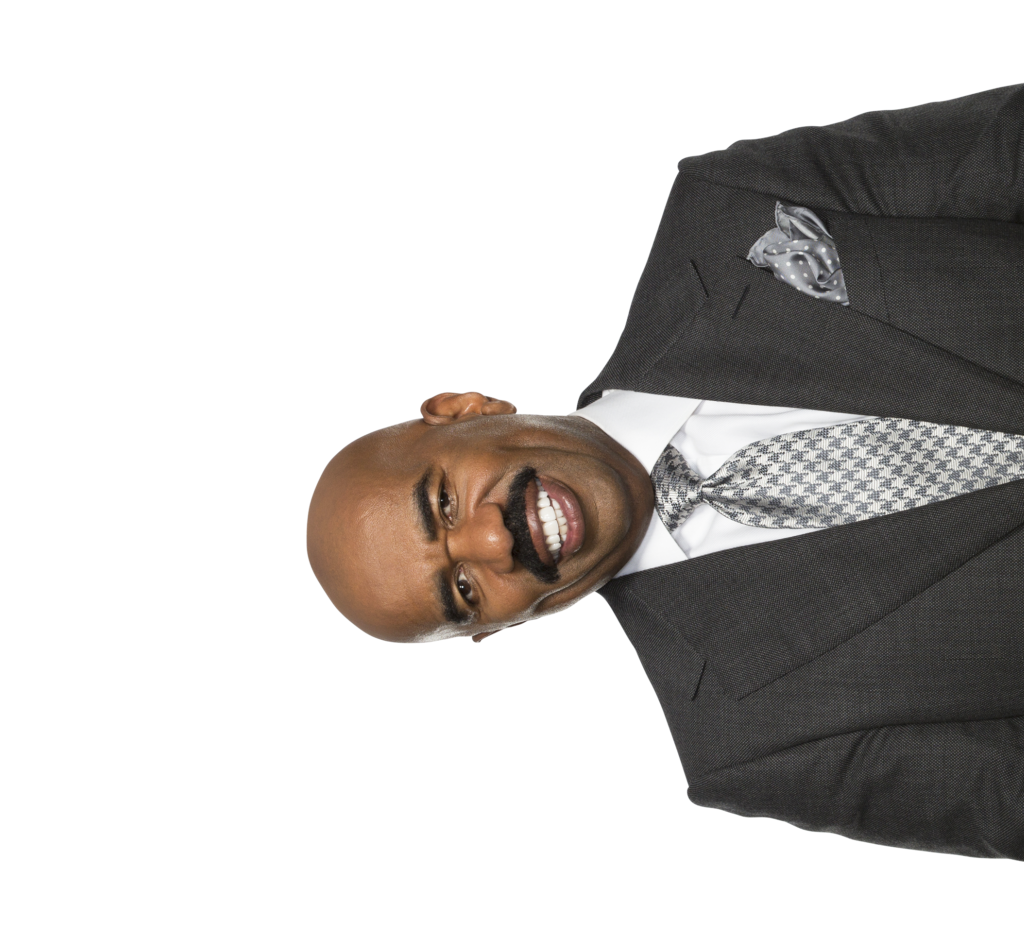
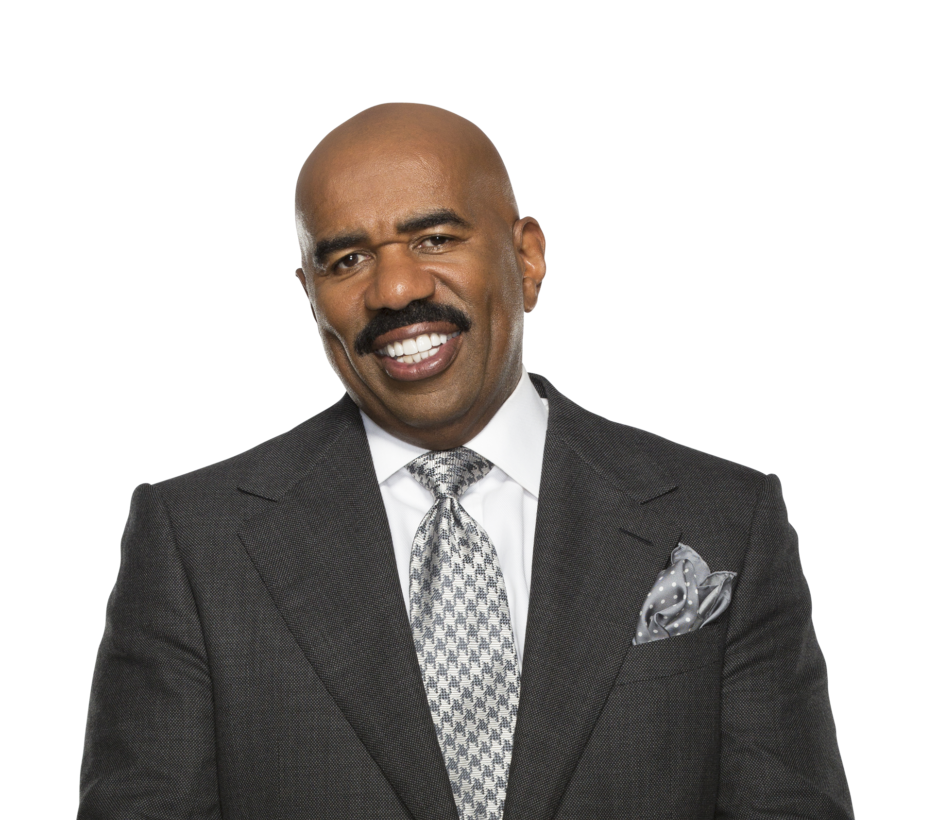
steve is coming from the bottom NOT side now

diff --git a/frontend/src/App.css b/frontend/src/App.css
@@ -31,6 +31,8 @@ body {
 
 .small-image {
   width: auto;
-  height: 450px;
-  margin-top: 100px;
+  height: 400px;
+  margin-top:200px;
+  position: absolute;
+  bottom: 0;
 }
